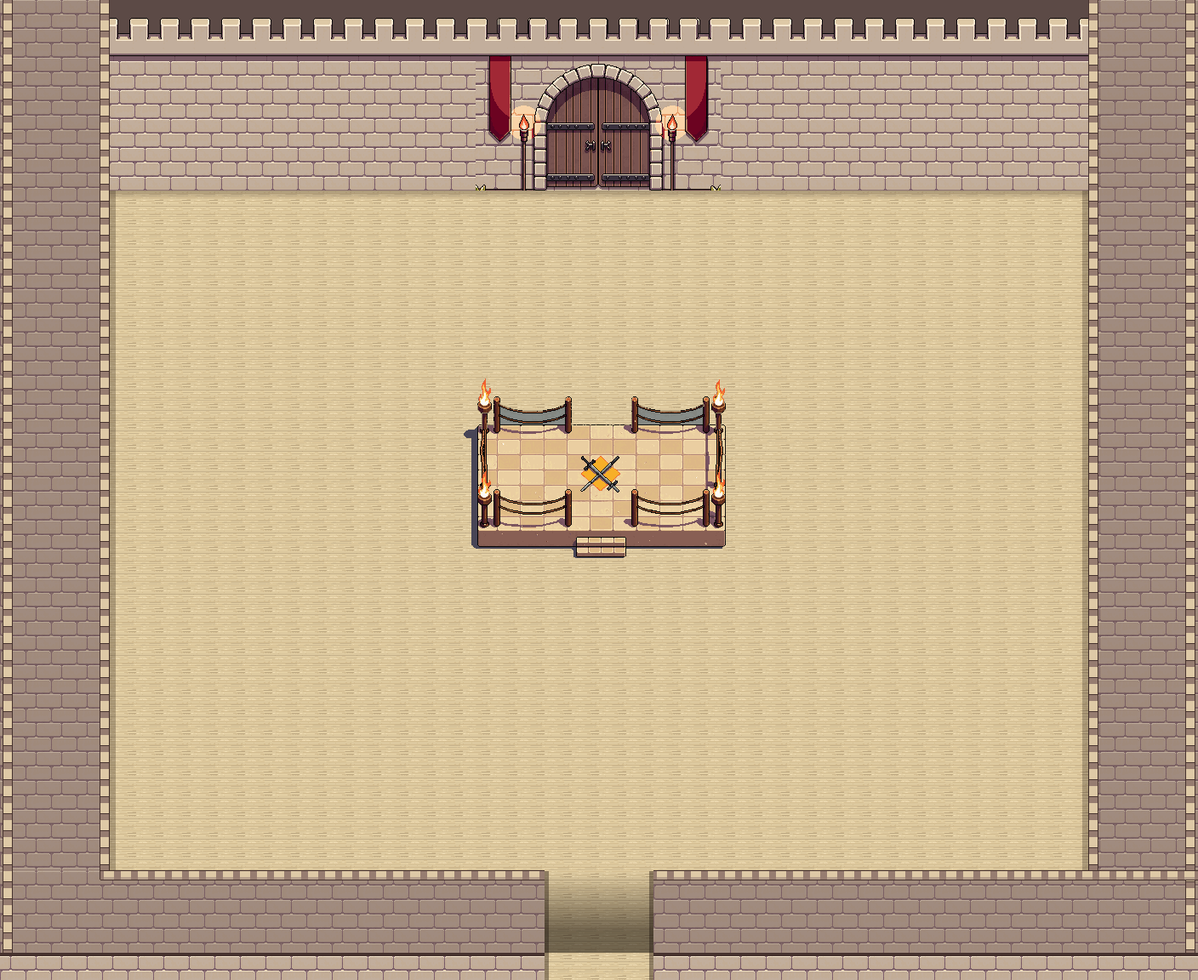
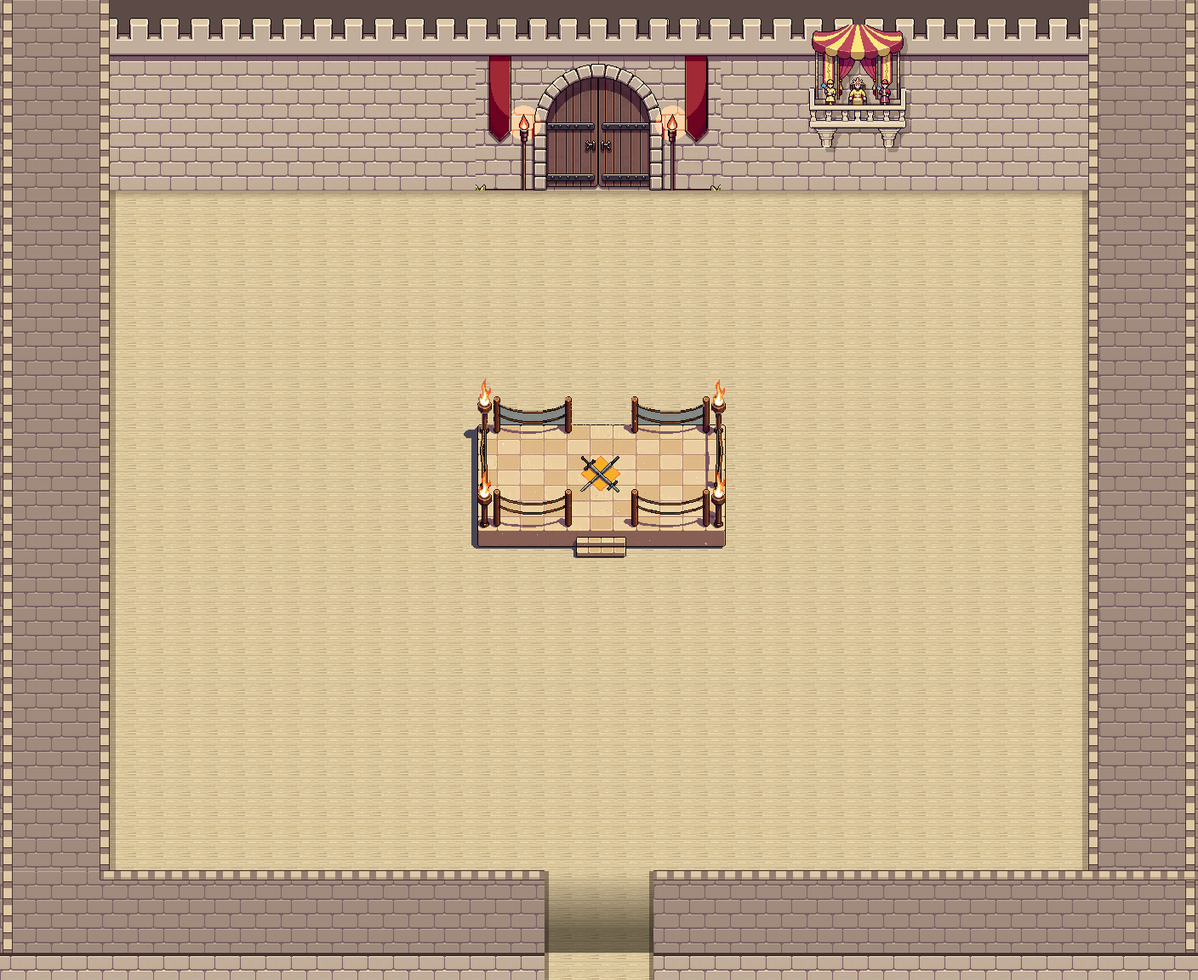
Arena: crowd colour variants, tumbleweeds and dust, bunting, emperor's box, cheering crowd
Claude-Session: https://claude.ai/code/session_01XDjrSJWyUbQspsRPp4c6ym

Changed region(s): [[0.6562, 0.0, 0.7812, 0.1562]]

diff --git a/game/js/northroad-arena.js b/game/js/northroad-arena.js
@@ -2,11 +2,12 @@
 // (SD.northRoad.maps), which builds everything else on the North Road; doors, entrances and people keep the same
 // keys, so the road, the quests and the cutscenes find them as before.
 //
-// The arena is a castle courtyard: thick sandstone walls all round, the fighters' great door in the north wall,
-// the road coming in through a passage in the south wall, and a raised ring in the middle that you can climb into.
-// The walls, the door and the ring are one picture painted under everything (assets/img/arc/ar-floor.webp, made by
-// tools/arena_art.py), so they always line up. Forty-odd people fill the sand: fans, skewer sellers, nobles, kids,
-// old gladiators, and two guards at the door.
+// The arena is a castle courtyard: thick sandstone walls all round, the fighters' great door in the north wall with
+// the emperor's box beside it, the road coming in through a passage in the south wall, and a raised ring in the
+// middle that you can climb into. The walls, the door, the box and the ring are one picture painted under everything
+// (assets/img/arc/ar-floor.webp, made by tools/arena_art.py), so they always line up. Forty-odd people fill the sand
+// (fans, skewer sellers, nobles, kids, old gladiators, two guards at the door) and cheer in waves; a dry wind blows
+// tumbleweeds and sand across it, under strings of pennants.
 (function () {
   const NR = SD.northRoad;
   if (!NR || !NR.maps) return;
@@ -22,28 +23,29 @@
   const FIRE = '255,140,60';
 
   // ---------- The crowd ----------
-  // [x, y, facing, kind]. Nobody stands in the lanes: the door's approach (tiles 20-23 down to the ring), the
-  // ring's two openings, or the road up from the south passage. The kinds are the arena's own people (spec1-7,
-  // PixelLab characters made by tools/arena_art.py): see KIND below.
+  // [x, y, facing, kind, moves]. Nobody stands in the lanes: the door's approach (tiles 20-23 down to the ring),
+  // the ring's two openings, or the road up from the south passage. The kinds are the arena's own people (spec1-7,
+  // PixelLab characters made by tools/arena_art.py, each in up to four colourings): see KIND below. moves is
+  // 'pace' for someone who can't keep still (js/northroad.js paces anyone with no home yet: a tile or two and back),
+  // or a round to walk back and forth along a clear straight line (the skewer sellers). Everyone else holds still.
   const S = 'south', N = 'north', E = 'east', Wf = 'west';
   const CROWD = [
     // along the north wall, either side of the door
-    [9, 8, S, 'vendor'], [10, 8, S, 'banner'], [12, 8, S, 'finger'], [13, 8, S, 'banner'], [17, 8, S, 'kid'],
-    [26, 8, S, 'noble'], [27, 8, S, 'noble'], [29, 8, S, 'finger'], [30, 8, S, 'banner'], [32, 8, S, 'vendor'],
+    [10, 8, S, 'banner'], [12, 8, S, 'finger'], [13, 8, S, 'banner', 'pace'], [17, 8, S, 'kid'],
+    [26, 8, S, 'noble'], [27, 8, S, 'noble'], [29, 8, S, 'finger'], [30, 8, S, 'banner'],
     // round the ring: behind it, at its sides, in front of it
     [17, 14, S, 'finger'], [18, 14, S, 'banner'], [19, 14, S, 'kid'], [24, 14, S, 'kid'], [25, 14, S, 'banner'], [26, 14, S, 'finger'],
     [15, 17, E, 'veteran'], [15, 18, E, 'banner'], [15, 19, E, 'finger'],
     [28, 17, Wf, 'finger'], [28, 18, Wf, 'banner'], [28, 19, Wf, 'veteran'],
     [17, 23, N, 'banner'], [18, 23, N, 'kid'], [19, 23, N, 'finger'], [24, 23, N, 'finger'], [25, 23, N, 'banner'], [26, 23, N, 'noble'],
     // down the side walls
-    [5, 12, E, 'veteran'], [5, 13, E, 'banner'], [5, 20, E, 'vendor'], [5, 25, E, 'finger'],
-    [38, 13, Wf, 'noble'], [38, 14, Wf, 'noble'], [38, 18, Wf, 'banner'], [38, 25, Wf, 'veteran'],
-    // at the snack carts
-    [11, 27, Wf, 'vendor'], [32, 27, E, 'kid']
+    [5, 12, E, 'veteran'], [5, 13, E, 'banner'], [5, 20, E, 'finger', 'pace'], [5, 25, E, 'finger'],
+    [38, 13, Wf, 'noble'], [38, 14, Wf, 'noble'], [38, 18, Wf, 'banner'], [38, 25, Wf, 'veteran', 'pace'],
+    [32, 27, E, 'kid'],
+    // the skewer sellers, doing their rounds
+    [11, 11, S, 'vendor', [[11, 11], [11, 22]]], [33, 24, N, 'vendor', [[33, 24], [33, 15]]],
+    [6, 24, E, 'vendor', [[6, 24], [15, 24]]], [36, 30, Wf, 'vendor', [[36, 30], [24, 30]]]
   ];
-  // Some of them can't keep still: they shuffle a tile or two and come back (js/northroad.js paces anyone with no
-  // home yet). The rest hold their spot.
-  const PACE = { 0: 1, 4: 1, 9: 1, 30: 1, 33: 1, 36: 1 };
   // Each kind: its sprite, the name and titles the dialog shows, a drawn portrait's colours, and lines of its own
   // (said alongside the crowd's shared ones).
   const KIND = {
@@ -89,11 +91,43 @@
     'The tournament\'s over and nobody wants to go home. I\'m not going home. This is home now.', 'I still hear the gong in my sleep. It\'s nice. Mostly.',
     'You were in the final, weren\'t you? I cheered for you! I cheered for everyone. But mostly you.', 'They\'re keeping the ring up for practice. Fight me! ...No, don\'t.'
   ];
+  // The crowd cheers in waves: every few seconds about a third of them (most of them, every fourth wave) give two
+  // little hops, and now and then one of them sings or cheers out loud. Drawn here rather than by js/scene.js so
+  // the hop can lift the sprite off its shadow; the sheets are laid out as scene.js expects (south, west, east, north;
+  // a standing pose, then the walk).
+  const ROW = { south: 0, west: 1, east: 2, north: 3 }, PICS = {}, CHEER = ['music', 'star', 'heart', 'laugh'];
+  const img = src => PICS[src] || (PICS[src] = pic(src));
+  const ok = im => im.complete && im.naturalWidth;
+  const hash = (a, b) => { let h = (a * 374761393 + b * 668265263) | 0; h = (h ^ (h >>> 13)) * 1274126177; return ((h ^ (h >>> 16)) >>> 0) / 4294967296; };
+  const WAVE = 4.5;
+  function fan(i, cheers) {
+    return function (ctx, x, y, ts, t) {
+      const c = SD.arcArt.chars[this.sprite], im = img('assets/img/arc/c-' + this.sprite + '.webp');
+      const going = this.moving || this.path.length;
+      let hop = 0;
+      if (cheers && !going) {
+        const w = Math.floor(t / WAVE), start = w * WAVE + hash(i, w + 7) * 1.4, u = t - start;
+        if (hash(i, w) < (w % 4 === 3 ? 0.75 : 0.3) && u >= 0 && u < 0.7) {
+          hop = Math.abs(Math.sin(u / 0.35 * Math.PI)) * ts * 0.22;
+          if (this.emoT <= 0 && this.cheered !== w && hash(i, w + 3) < 0.15) { this.emo = CHEER[(i + w) % 4]; this.emoT = 1.3; }
+          this.cheered = w;
+        }
+      }
+      ctx.fillStyle = 'rgba(43,35,64,0.22)';
+      ctx.beginPath(); ctx.ellipse(x, y - ts * 0.05, ts * (0.32 - hop / ts * 0.3), ts * 0.11, 0, 0, Math.PI * 2); ctx.fill();
+      if (!c || !ok(im)) return;
+      const row = ROW[this.face] || 0, n = c.n[row], col = n && going ? 1 + Math.floor(t * 8) % n : 0;
+      const w = c.w * ts / 32, h = c.h * ts / 32;
+      ctx.drawImage(im, col * c.w, row * c.h, c.w, c.h, x - w / 2, y - h - hop, w, h);
+    };
+  }
   const crowd = {}, said = {}, seen = {};
-  CROWD.forEach(([x, y, face, kind], i) => {
+  CROWD.forEach(([x, y, face, kind, moves], i) => {
+    // Each kind cycles through its colourings, so neighbours of the same kind never match.
     const id = 'crowd' + i, k = KIND[kind], n = seen[kind] = (seen[kind] || 0) + 1;
     SD.cast[id] = Object.assign({ name: k.name, title: k.titles[(n - 1) % k.titles.length] }, k.look);
-    crowd[id] = Object.assign({ x, y, face, sprite: k.sprite }, PACE[i] ? {} : { home: [x, y], nextStroll: Infinity });
+    crowd[id] = Object.assign({ x, y, face, sprite: k.sprite + ['', 'b', 'c', 'd'][(n - 1) % 4], draw: fan(i, kind !== 'vendor') },
+      moves === 'pace' ? {} : Array.isArray(moves) ? { route: moves } : { home: [x, y], nextStroll: Infinity });
     SD.roadTalk.lines[id] = () => {
       const pool = k.lines.concat(flags().ch8 ? AFTER : [], LINES);
       said[i] = (said[i] || 0) + 1;
@@ -104,7 +138,7 @@
   [[19, 7], [24, 7]].forEach(([x, y], i) => {
     const id = 'doorguard' + i;
     SD.cast[id] = { name: 'Arena guard', title: 'Has never once blinked', hue: 35, hair: 'short', eye: '#2b2340' };
-    crowd[id] = { x, y, face: 'south', sprite: 'spec7', home: [x, y], nextStroll: Infinity };
+    crowd[id] = { x, y, face: 'south', sprite: i ? 'spec7b' : 'spec7', home: [x, y], nextStroll: Infinity };
     SD.roadTalk.lines[id] = () => [i ? 'Fighters only beyond this door. And Gong. And the skewer seller. And... fighters only, mostly.'
       : 'Halt. ...Sorry, I say that to everyone. You can go in if you\'re fighting. Are you fighting? You look like you\'re fighting.'];
   });
@@ -130,13 +164,113 @@
     const BRAZIERS = [[15, 7], [28, 7], [4, 9], [4, 16], [4, 23], [39, 9], [39, 16], [39, 23], [19, 33], [24, 33]];
     BRAZIERS.forEach(([x, y]) => m.put(x, y, '#'));
     const FLOOR = pic('assets/img/arc/ar-floor.webp');
+
+    // ---------- Wind ----------
+    // A dry wind blows west to east. Tumbleweeds roll across the sand, bouncing and spinning, each on a lane clear of
+    // the ring; they are actors (solid: false, they can't be talked to) so people are drawn in front of or behind
+    // them by row. Where each one is comes from the time alone, set in under() before anything is drawn.
+    const TW = [[0.9, 2.3, 'ar-tumbleweed', 0], [0.75, 1.8, 'ar-tumbleweed2', 13], [1, 2.8, 'ar-tumbleweed', 29]];   // size, speed, art, start
+    const LANES = [11, 24, 30, 26, 31, 12], RUN = 37, GAP = 30;   // a run across the sand, then a while off it
+    const tumble = {};
+    TW.forEach(([k, speed, art], j) => {
+      tumble['tumble' + j] = { x: 3, y: 11, solid: false, talk: false, home: [3, 11], nextStroll: Infinity, hidden: true,
+        draw(ctx, x, y, ts) {
+          const a = SD.arcArt.objects[art], im = img('assets/img/arc/' + art + '.webp'); if (!a || !ok(im)) return;
+          const d = this.dist || 0, hop = Math.abs(Math.sin(d * Math.PI / 1.7)) * ts * 0.5 * k, w = a[0] * ts / 32 * k, h = a[1] * ts / 32 * k;
+          ctx.fillStyle = 'rgba(60,40,20,' + (0.25 - hop / ts * 0.2) + ')';
+          ctx.beginPath(); ctx.ellipse(x, y - ts * 0.08, w * 0.4 * (1 - hop / ts * 0.4), ts * 0.1, 0, 0, Math.PI * 2); ctx.fill();
+          const land = (d % 1.7) / 1.7;                              // a puff of sand just after each landing
+          if (land < 0.35 && ok(img('assets/img/arc/ar-dust.webp'))) {
+            const D = SD.arcArt.objects['ar-dust'], q = 0.35 + land;
+            ctx.globalAlpha = 0.5 * (1 - land / 0.35);
+            ctx.drawImage(img('assets/img/arc/ar-dust.webp'), x - w * 0.9 - D[0] * ts / 32 * q * 0.5, y - D[1] * ts / 32 * q, D[0] * ts / 32 * q, D[1] * ts / 32 * q);
+            ctx.globalAlpha = 1;
+          }
+          ctx.save(); ctx.translate(x, y - h / 2 - hop); ctx.rotate(d / (k * 0.55)); ctx.drawImage(im, -w / 2, -h / 2, w, h); ctx.restore();
+        } };
+    });
+    let cam = { x: 0, y: 0, ts: 32 };
+    function under(ctx, ts, t) {
+      const T = ctx.getTransform(); cam = { x: -T.e / T.a, y: -T.f / T.d, ts };   // scene.js has shifted the canvas by the camera
+      if (FLOOR.complete && FLOOR.naturalWidth) ctx.drawImage(FLOOR, 0, 0, W * ts, H * ts);
+      const sc = NR.scene && NR.scene();
+      TW.forEach(([k, speed], j) => {
+        const a = sc && sc.actors['tumble' + j]; if (!a) return;
+        const d = speed * (t + TW[j][3] + 0.45 * Math.sin(0.7 * t + j * 2)), lap = Math.floor(d / (RUN + GAP)), u = d - lap * (RUN + GAP);
+        a.hidden = u > RUN; a.dist = u;
+        a.x = a.px = 3.4 + u; a.y = a.py = LANES[(lap + j * 2) % LANES.length];
+      });
+    }
+    // Over everything, in screen space: the shadows of clouds and birds passing over, sand blowing through in
+    // streaks and specks, and strings of pennants swaying high above the sand.
+    let SHADE = null;
+    function cloudShade() {
+      const c = document.createElement('canvas'); c.width = 360; c.height = 220;
+      const g = c.getContext('2d'), r = g.createRadialGradient(180, 110, 10, 180, 110, 170);
+      r.addColorStop(0, 'rgba(50,32,16,0.2)'); r.addColorStop(1, 'rgba(50,32,16,0)');
+      g.fillStyle = r; g.scale(1, 0.65); g.beginPath(); g.arc(180, 170, 170, 0, 7); g.fill();
+      return c;
+    }
+    // [from x, y, to x, y, sag] in tiles: down from the top of the north wall to the side walls, and one across the south.
+    const STRINGS = [[9, 1.8, 3.8, 12, 1], [16, 1.8, 3.8, 20, 1.4], [27, 1.8, 40.2, 20, 1.4], [34, 1.8, 40.2, 12, 1], [3.8, 26.6, 40.2, 26.6, 2]];
+    const PENNANT = ['#c8323c', '#f0c040', '#f4ecd8', '#3a6fc4'];
+    function overlay(ctx, t, vw, vh) {
+      const ts = cam.ts, s = ts / 32, wx = x => x * ts - cam.x, wy = y => y * ts - cam.y;
+      // cloud shadows and birds, fixed to the ground as it scrolls
+      SHADE = SHADE || cloudShade();
+      for (let i = 0; i < 2; i++) {
+        const span = W * ts + 900 * s, x = ((t * 14 * s + i * span / 2) % span) - 450 * s;
+        ctx.drawImage(SHADE, x - cam.x, wy(9 + i * 13), 360 * s * 1.6, 220 * s * 1.6);
+      }
+      ctx.strokeStyle = 'rgba(40,26,12,0.22)'; ctx.lineWidth = 2.5 * s; ctx.lineCap = 'round';
+      for (let i = 0; i < 4; i++) {
+        const span = W * ts + 600 * s, x = ((t * (60 + i * 9) * s + i * 377 * s) % span) - 300 * s, y = (6 + i * 7) * ts + x * 0.18;
+        const f = 0.45 + 0.35 * Math.sin(t * 9 + i * 2), b = 9 * s;
+        ctx.beginPath(); ctx.moveTo(x - cam.x - b, y - cam.y - b * f); ctx.lineTo(x - cam.x, y - cam.y); ctx.lineTo(x - cam.x + b, y - cam.y - b * f); ctx.stroke();
+      }
+      // blowing sand: soft clouds, streaks, specks, each layer a touch faster than the ground (parallax)
+      const drift = (name, k, speed, par, alpha, n, y0) => {
+        const a = SD.arcArt.objects[name], im = img('assets/img/arc/' + name + '.webp'); if (!a || !ok(im)) return;
+        const w = a[0] * s * k, h = a[1] * s * k, span = vw + w * 2;
+        ctx.globalAlpha = alpha;
+        for (let i = 0; i < n; i++) {
+          const x = (((i * span / n + t * speed * s - cam.x * par) % span) + span) % span - w;
+          const y = ((((y0 + i * 0.37) % 1) * (vh + h) - cam.y * par * 0.3) % (vh + h) + vh + h) % (vh + h) - h;
+          ctx.drawImage(im, x, y + Math.sin(t * 1.3 + i) * 6 * s, w, h);
+        }
+        ctx.globalAlpha = 1;
+      };
+      drift('ar-dust', 3, 38, 1.1, 0.14, 3, 0.2);
+      drift('ar-dust2', 2, 150, 1.25, 0.3, 5, 0.1);
+      ctx.fillStyle = 'rgba(232,206,150,0.6)';
+      for (let i = 0; i < 50; i++) {
+        const sp = (110 + (i % 5) * 30) * s, x = ((i * 97 * s + t * sp - cam.x * 1.2) % (vw + 40) + vw + 40) % (vw + 40) - 20;
+        const y = ((i * 53 * s - cam.y * 1.2) % vh + vh) % vh + Math.sin(t * 2 + i) * 8 * s;
+        ctx.fillRect(x, y, 2 * s, 1.5 * s);
+      }
+      // bunting: a cord sagging between two points, swaying, with a pennant every couple of feet
+      STRINGS.forEach(([x0, y0, x1, y1, sag], j) => {
+        const at = u => [wx(x0 + (x1 - x0) * u), wy(y0 + (y1 - y0) * u + (sag + Math.sin(t * 1.1 + j) * 0.12) * 4 * u * (1 - u))];
+        const len = Math.hypot(x1 - x0, y1 - y0), n = Math.round(len / 0.6);
+        ctx.strokeStyle = 'rgba(60,40,30,0.9)'; ctx.lineWidth = 1.5 * s; ctx.beginPath();
+        for (let i = 0; i <= 24; i++) { const [px, py] = at(i / 24); i ? ctx.lineTo(px, py) : ctx.moveTo(px, py); }
+        ctx.stroke();
+        for (let i = 1; i < n; i++) {
+          const [px, py] = at(i / n), sw = Math.sin(t * 3 + i * 0.9 + j) * 0.3, pw = 0.17 * ts, ph = 0.42 * ts;
+          ctx.save(); ctx.translate(px, py); ctx.rotate(sw);
+          ctx.fillStyle = PENNANT[(i + j) % PENNANT.length]; ctx.strokeStyle = 'rgba(50,30,20,0.85)'; ctx.lineWidth = 1 * s;
+          ctx.beginPath(); ctx.moveTo(-pw, 0); ctx.lineTo(pw, 0); ctx.lineTo(0, ph); ctx.closePath(); ctx.fill(); ctx.stroke();
+          ctx.restore();
+        }
+      });
+    }
     return {
       map: m.rows(), terrain: { a: 'd8', '#': 'd8', D: 'd8', S: 'd8' }, top: ['d8'], base: 'd8', solid: '#', bg: '#c9b48a', zoom: 32,
       doors: { D: 'D', S: 'S' },
       doorFor: (x, y) => (x >= 4 && x <= 39 && y <= 6) ? [21, 7] : null,
-      under: (ctx, ts) => { if (FLOOR.complete && FLOOR.naturalWidth) ctx.drawImage(FLOOR, 0, 0, W * ts, H * ts); },
+      under, overlay,
       objects: [
-        ...[7, 13.5, 29.5, 36].map(x => ({ name: 'ar-banner', x, y: 6.4 })),
+        ...[7, 13.5, 27.4, 36].map(x => ({ name: 'ar-banner', x, y: 6.4 })),
         { name: 'ar-weapons', x: 11, y: 7 }, { name: 'ar-weapons', x: 32, y: 7, flip: true },
         ...BRAZIERS.map(([x, y]) => ({ name: 'ar-brazier', x, y })),
         { name: 'ar-bracket', x: 7, y: 10 }, { name: 'ar-booth', x: 36.5, y: 10 }, { name: 'ar-gong', x: 31, y: 13 },
@@ -148,13 +282,14 @@
         { name: 'ar-pillar', x: 19.5, y: 32.2 }, { name: 'ar-pillar', x: 23.5, y: 32.2 }
       ],
       lights: BRAZIERS.map(([x, y]) => ({ x, y: y - 1, r: 2.6, rgb: FIRE }))
-        .concat([[17.2, 15], [25.8, 15], [17.2, 19], [25.8, 19], [19.3, 4.6], [24.7, 4.6]].map(([x, y]) => ({ x, y, r: 2.4, rgb: FIRE }))),
+        .concat([[17.2, 15], [25.8, 15], [17.2, 19], [25.8, 19], [19.3, 4.6], [24.7, 4.6]].map(([x, y]) => ({ x, y, r: 2.4, rgb: FIRE })))
+        .concat([{ x: 31, y: 3.2, r: 2.4, rgb: '255,200,120' }]),   // the emperor's box (tools/arena_art.py puts it at 31.5)
       labels: [{ x: 21.5, y: 7.4, text: "FIGHTERS' GATE" }, { x: 7, y: 11.1, text: 'THE BRACKET' }, { x: 21.5, y: 23.2, text: 'THE RING' }, { x: 21.5, y: 34.6, text: 'ROAD ↓' }],
       actors: Object.assign({
         gong: { x: 34, y: 13, face: 'south', name: 'GONG' },
         v3: { x: 6, y: 16, face: 'east', name: 'FAN' }, v1: { x: 30, y: 29, face: 'west', name: 'FAN' }, v2: { x: 12, y: 29, face: 'east', name: 'FAN' }, v4: { x: 37, y: 22, face: 'west', name: 'BOOKIE' },
         hero500: { x: 24, y: 18, face: 'west', name: 'HERO #500', hidden: true }
-      }, crowd),
+      }, crowd, tumble),
       back: { D: [21, 7, 'south'], S: [21, 34, 'north'] }, enter: [21, 34, 'north'], ch: 8, music: 'ch8', weather: 'sun'
     };
   })();

diff --git a/game/js/arena-art.js b/game/js/arena-art.js
@@ -1,3 +1,3 @@
 // Made by tools/arena_art.py: sizes of its art and its people (added to js/arc-art.js's tables).
-Object.assign(SD.arcArt.objects, {"ar-pillar": [22, 107], "ar-gong": [83, 98], "ar-brazier": [23, 58], "ar-banner": [25, 107], "ar-weapons": [40, 55], "ar-crates": [56, 52], "ar-foodcart": [50, 66], "ar-floor": [1408, 1152]});
-Object.assign(SD.arcArt.chars, {"spec1": {"w": 34, "h": 57, "n": [4, 4, 4, 4], "walk": 1}, "spec2": {"w": 28, "h": 52, "n": [4, 4, 4, 4], "walk": 1}, "spec3": {"w": 30, "h": 52, "n": [4, 4, 4, 4], "walk": 1}, "spec4": {"w": 28, "h": 54, "n": [4, 4, 4, 4], "walk": 1}, "spec5": {"w": 30, "h": 56, "n": [4, 4, 4, 4], "walk": 1}, "spec6": {"w": 30, "h": 53, "n": [4, 4, 4, 4], "walk": 1}, "spec7": {"w": 28, "h": 54, "n": [4, 4, 4, 4], "walk": 1}, "folk1": {"w": 30, "h": 52, "n": [4, 4, 4, 4], "walk": 1}, "folk2": {"w": 30, "h": 53, "n": [4, 4, 4, 4], "walk": 1}, "folk3": {"w": 30, "h": 53, "n": [4, 4, 4, 4], "walk": 1}, "folk4": {"w": 28, "h": 51, "n": [4, 4, 4, 4], "walk": 1}, "folk5": {"w": 28, "h": 53, "n": [4, 4, 4, 4], "walk": 1}, "folk6": {"w": 28, "h": 51, "n": [4, 4, 4, 4], "walk": 1}});
+Object.assign(SD.arcArt.objects, {"ar-pillar": [22, 107], "ar-gong": [83, 98], "ar-brazier": [23, 58], "ar-banner": [25, 107], "ar-weapons": [40, 55], "ar-crates": [56, 52], "ar-foodcart": [50, 66], "ar-tumbleweed": [36, 34], "ar-tumbleweed2": [34, 34], "ar-dust": [82, 42], "ar-dust2": [118, 18], "ar-floor": [1408, 1152]});
+Object.assign(SD.arcArt.chars, {"spec1": {"w": 34, "h": 57, "n": [4, 4, 4, 4], "walk": 1}, "spec1b": {"w": 34, "h": 57, "n": [4, 4, 4, 4], "walk": 1}, "spec1c": {"w": 34, "h": 57, "n": [4, 4, 4, 4], "walk": 1}, "spec1d": {"w": 34, "h": 57, "n": [4, 4, 4, 4], "walk": 1}, "spec2": {"w": 28, "h": 52, "n": [4, 4, 4, 4], "walk": 1}, "spec2b": {"w": 28, "h": 52, "n": [4, 4, 4, 4], "walk": 1}, "spec2c": {"w": 28, "h": 52, "n": [4, 4, 4, 4], "walk": 1}, "spec2d": {"w": 28, "h": 52, "n": [4, 4, 4, 4], "walk": 1}, "spec3": {"w": 30, "h": 52, "n": [4, 4, 4, 4], "walk": 1}, "spec3b": {"w": 30, "h": 52, "n": [4, 4, 4, 4], "walk": 1}, "spec3c": {"w": 30, "h": 52, "n": [4, 4, 4, 4], "walk": 1}, "spec3d": {"w": 30, "h": 52, "n": [4, 4, 4, 4], "walk": 1}, "spec4": {"w": 28, "h": 54, "n": [4, 4, 4, 4], "walk": 1}, "spec4b": {"w": 28, "h": 54, "n": [4, 4, 4, 4], "walk": 1}, "spec4c": {"w": 28, "h": 54, "n": [4, 4, 4, 4], "walk": 1}, "spec4d": {"w": 28, "h": 54, "n": [4, 4, 4, 4], "walk": 1}, "spec5": {"w": 30, "h": 56, "n": [4, 4, 4, 4], "walk": 1}, "spec5b": {"w": 30, "h": 56, "n": [4, 4, 4, 4], "walk": 1}, "spec5c": {"w": 30, "h": 56, "n": [4, 4, 4, 4], "walk": 1}, "spec5d": {"w": 30, "h": 56, "n": [4, 4, 4, 4], "walk": 1}, "spec6": {"w": 30, "h": 53, "n": [4, 4, 4, 4], "walk": 1}, "spec6b": {"w": 30, "h": 53, "n": [4, 4, 4, 4], "walk": 1}, "spec6c": {"w": 30, "h": 53, "n": [4, 4, 4, 4], "walk": 1}, "spec6d": {"w": 30, "h": 53, "n": [4, 4, 4, 4], "walk": 1}, "spec7": {"w": 28, "h": 54, "n": [4, 4, 4, 4], "walk": 1}, "spec7b": {"w": 28, "h": 54, "n": [4, 4, 4, 4], "walk": 1}, "folk1": {"w": 30, "h": 52, "n": [4, 4, 4, 4], "walk": 1}, "folk2": {"w": 30, "h": 53, "n": [4, 4, 4, 4], "walk": 1}, "folk3": {"w": 30, "h": 53, "n": [4, 4, 4, 4], "walk": 1}, "folk4": {"w": 28, "h": 51, "n": [4, 4, 4, 4], "walk": 1}, "folk5": {"w": 28, "h": 53, "n": [4, 4, 4, 4], "walk": 1}, "folk6": {"w": 28, "h": 51, "n": [4, 4, 4, 4], "walk": 1}});

diff --git a/game/tools/arena_art.py b/game/tools/arena_art.py
@@ -2,10 +2,11 @@
 
 usage: arena_art.py SRC_DIR   (SRC_DIR: /mnt/project-files/arena-exchange-raw)
 SRC_DIR holds the raw PixelLab files: ar-*.png map objects, ar-door.png (the great door in its stretch of wall),
+ar-royalbox2.png (the emperor's box),
 ar-ring2.png (the ring, on a grey backdrop), kit/ (a sandstone building kit; its sand floor is used) and
 chars/spec1-7/ and chars/folk1-6/ (characters, each unzipped from its download).
 Writes assets/img/arc/<name>.webp, ar-floor.webp (walls, door and ring, painted under the arena by
-js/northroad-arena.js), the crowd's people c-spec1-7.webp
+js/northroad-arena.js), the crowd's people c-spec1-7.webp and their recoloured variants (c-spec1b...)
 (and c-folk1-6.webp, townsfolk the Exchange uses), and js/arena-art.js (their sizes).
 """
 import colorsys, json, os, sys
@@ -15,7 +16,8 @@ from PIL import Image
 SRC = sys.argv[1]
 HERE = os.path.dirname(os.path.dirname(os.path.abspath(__file__)))
 OUT = os.path.join(HERE, 'assets/img/arc')
-OBJECTS = ['ar-pillar', 'ar-gong', 'ar-brazier', 'ar-banner', 'ar-weapons', 'ar-crates', 'ar-foodcart']
+OBJECTS = ['ar-pillar', 'ar-gong', 'ar-brazier', 'ar-banner', 'ar-weapons', 'ar-crates', 'ar-foodcart',
+           'ar-tumbleweed', 'ar-tumbleweed2', 'ar-dust', 'ar-dust2']   # the last four blow about (js/northroad-arena.js)
 
 def save(im, name):
     im.save(os.path.join(OUT, name + '.webp'), lossless=True, quality=100, method=6)
@@ -84,6 +86,12 @@ DOOR_X = 22 * TS - X0 * TS - DOOR_MID                     # where the door sits 
 for x in range((DOOR_X + 100) % 36 - 36, face.width, 36):   # merlons in step with the door's own
     face.alpha_composite(parapet, (x, 0))
 face.alpha_composite(door, (DOOR_X, 0))
+# The emperor's box (ar-royalbox2): a canopied balcony on brackets, set into the wall east of the door.
+box = load('ar-royalbox2'); box = box.crop(box.getbbox())
+BOX_MID = 31.5 * TS                                       # keep in step with the box's light in js/northroad-arena.js
+bx = int(BOX_MID - X0 * TS - box.width / 2)
+shadow = Image.new('RGBA', box.size, (40, 26, 18, 0)); shadow.putalpha(box.getchannel('A').point(lambda a: 70 if a > 0 else 0))
+face.alpha_composite(shadow, (bx + 5, 16)); face.alpha_composite(box, (bx, 10))   # it stands out from the wall a little
 floor.alpha_composite(Image.new('RGBA', (W * TS, FACE_TOP + 20), (92, 74, 70, 255)), (0, 0))   # the walkway behind
 floor.alpha_composite(face, (X0 * TS, FACE_TOP))
 for i in range(10):                                       # shade along the foot of the wall
@@ -126,6 +134,56 @@ save(floor, 'ar-floor'); sizes['ar-floor'] = [W * TS, H * TS]
 # seller, an old gladiator, a noble, a kid with a wooden sword, and the arena guard) and townsfolk (folk1-6; the
 # Exchange uses them). One sheet each, as tools/village_art.py makes them: rows south, west, east, north; column 0
 # standing, then the four walking frames.
+# Variants, so the crowd isn't forty copies of seven people: each recipe recolours some of a sheet's colours and
+# leaves the rest (skin, outlines, wood, steel) alone. A rule picks colours by hue window (degrees, wrapping round 0),
+# saturation and brightness ranges, and how much of that colour sits in the top third of the frame (hair, hats,
+# plumes); then turns the hue, scales the saturation, or tints by brightness towards a colour.
+def rule(h=(0, 360), s=(0, 1), v=(0, 1), top=(0, 1), turn=0, sat=1, tint=None):
+    return dict(h=h, s=s, v=v, top=top, turn=turn, sat=sat, tint=tint)
+REDS, PURPLES = (330, 15), (262, 300)
+VARIANTS = {
+    'spec1': [[rule(REDS, (0.55, 1), turn=125)], [rule(REDS, (0.55, 1), turn=215)], [rule(REDS, (0.55, 1), turn=42)]],    # team colours
+    'spec2': [[rule(REDS, (0.55, 1), turn=220)], [rule(REDS, (0.55, 1), turn=130), rule((25, 52), (0.55, 1), sat=0.15)],
+              [rule(REDS, (0.55, 1), turn=275), rule((25, 52), (0.55, 1), turn=150)]],
+    'spec3': [[rule(REDS, (0.6, 1), (0, 0.74), turn=210)], [rule(REDS, (0.6, 1), (0, 0.74), turn=120)],
+              [rule(REDS, (0.6, 1), (0, 0.74), turn=30, sat=0.8)]],                                        # aprons and caps, not the meat
+    'spec4': [[rule(s=(0, 0.13), v=(0.45, 1), top=(0.75, 1), tint=(236, 236, 240)), rule((215, 260), (0.15, 0.7), turn=130, sat=1.8)],
+              [rule(s=(0, 0.13), v=(0.45, 1), top=(0.75, 1), tint=(92, 60, 44)), rule((215, 260), (0.15, 0.7), turn=250, sat=1.8)],
+              [rule(s=(0, 0.13), v=(0.45, 1), top=(0.75, 1), tint=(206, 112, 58))]],                                     # hair, trousers
+    'spec5': [[rule(PURPLES, (0.5, 1), turn=78)], [rule(PURPLES, (0.5, 1), turn=-62)], [rule(PURPLES, (0.5, 1), turn=-150)]],  # robes
+    'spec6': [[rule((215, 245), (0.3, 1), turn=140), rule(s=(0, 0.06), v=(0.75, 1), top=(0, 0.25), tint=(200, 222, 246))],
+              [rule((215, 245), (0.3, 1), turn=-100), rule(s=(0, 0.06), v=(0.75, 1), top=(0, 0.25), tint=(246, 226, 160))],
+              [rule((215, 245), (0.3, 1), turn=60), rule(s=(0, 0.06), v=(0.75, 1), top=(0, 0.25), tint=(216, 240, 196))]],   # trousers, shirt
+    'spec7': [[rule((350, 15), (0.68, 1), top=(0.8, 1), turn=215)]],                                                    # a blue plume
+}
+def recolor(sheet, fh, recipe):
+    px = sheet.load(); W_, H_ = sheet.size
+    seen, up = {}, {}                                     # how often each colour appears, and how often in a frame's top third
+    for y in range(H_):
+        for x in range(W_):
+            c = px[x, y]
+            if c[3] < 200: continue
+            seen[c[:3]] = seen.get(c[:3], 0) + 1
+            if y % fh < fh / 3: up[c[:3]] = up.get(c[:3], 0) + 1
+    remap = {}
+    for c, n in seen.items():
+        h, sa, va = colorsys.rgb_to_hsv(*(k / 255 for k in c)); hd = h * 360; tp = up.get(c, 0) / n
+        for r in recipe:
+            lo, hi = r['h']
+            inh = lo <= hd <= hi if lo <= hi else (hd >= lo or hd <= hi)
+            if not (inh and r['s'][0] <= sa <= r['s'][1] and r['v'][0] <= va <= r['v'][1] and r['top'][0] <= tp <= r['top'][1]): continue
+            if r['tint']:
+                k = va / 0.85; remap[c] = tuple(min(255, int(t * k)) for t in r['tint'])
+            else:
+                remap[c] = tuple(int(k * 255) for k in colorsys.hsv_to_rgb(((hd + r['turn']) % 360) / 360, min(1, sa * r['sat']), va))
+            break
+    out = sheet.copy(); po = out.load()
+    for y in range(H_):
+        for x in range(W_):
+            c = po[x, y]
+            if c[:3] in remap: po[x, y] = remap[c[:3]] + (c[3],)
+    return out
+
 chars = {}
 for name in ['spec%d' % n for n in range(1, 8)] + ['folk%d' % n for n in range(1, 7)]:
     d = os.path.join(SRC, 'chars', name)
@@ -145,6 +203,8 @@ for name in ['spec%d' % n for n in range(1, 8)] + ['folk%d' % n for n in range(1
     for ri, r in enumerate(rows):
         for ci, im in enumerate(r): out.alpha_composite(im.crop((x0, box[1], x1, box[3])), (ci * fw, ri * fh))
     save(out, 'c-' + name); chars[name] = {'w': fw, 'h': fh, 'n': [len(r) - 1 for r in rows], 'walk': 1}
+    for v, recipe in enumerate(VARIANTS.get(name, [])):           # the same person in other colours: spec1b, spec1c...
+        save(recolor(out, fh, recipe), 'c-%s%s' % (name, 'bcd'[v])); chars[name + 'bcd'[v]] = chars[name]
 
 open(os.path.join(HERE, 'js/arena-art.js'), 'w').write(
     '// Made by tools/arena_art.py: sizes of its art and its people (added to js/arc-art.js\'s tables).\n'

diff --git a/game/CREDITS-arc.md b/game/CREDITS-arc.md
@@ -8,7 +8,7 @@ Kept apart from `CREDITS.md` so the arc branch merges cleanly; fold it in whenev
 | --- | --- | --- | --- |
 | North Road buildings and props (`assets/img/arc/nr-*.webp`), Kyu, Lord Latency, Hero #1023 and Hero #500 sprites (`assets/img/arc/c-*.webp`), chapter 7-10 dungeon floors and props (`assets/img/dungeon/t-7..10`, `d7a`-`d10b`), chapter 7 monsters (`assets/img/monsters/cellgremlin, pingswarm, stalepin, detour, tilehoarder, mimic, chestboss, statue, wyrm`), chapter 7-10 battle backdrops (`assets/img/battle/bg-7..10`), Kyu's and Lord Latency's portraits (`assets/img/portraits/kyu-*`, `latency-*`) and the village's North Road gate (`assets/img/village/b-N.webp`, a copy of `nr-gate`) | Generated for this game with [PixelLab](https://pixellab.ai) on Ladi's subscription, processed by `tools/village_art.py`, `tools/arc_art.py` and `tools/pixel_portraits.py` | Used under PixelLab's [Terms of Service](https://pixellab.ai/termsofservice) | The North Road, the arc's floors, fights and cutscenes |
 | Chapter 9 and 10 monsters and bosses (`assets/img/monsters/unreadimp, spamslime, bitrot, orphanchunk, rankrat, hotshard, mailstorm, mailleviathan, vaultgolem, whistleboard, doublebook, chargeback, forgedcoin, orderflood, shadowhero, homunculus, gluttony, greed, envy, pride, kyuboss, pager`), the side-quest characters Suzu, Zen, Explodia, Hypewagon and Akane and their portraits (`assets/img/portraits/suzu-*`, `zen-*`, `explodia-*` in five moods, `hypewagon-*`, `akane-*`), the road travellers' portraits (`assets/img/portraits/v1-*` to `v4-*`, drawn from their village sprites), Heroes #3, #77 and #256 (`assets/img/arc/c-*.webp`), and the North Road city wall, rooftops, cliff, tunnel, arena seats, camp dummy and vending machine, Exchange townhouses, planters and fire pit, walk cycles for every North Road character and for Ren (`assets/img/arc/*.webp`, Ren's is `c-renwalk.webp`) | Generated for this game with [PixelLab](https://pixellab.ai) on Ladi's subscription, processed by `tools/arc_art.py`, `tools/village_art.py` and `tools/pixel_portraits.py` | Used under PixelLab's [Terms of Service](https://pixellab.ai/termsofservice) | Chapters 9 and 10, the North Road and its side quests |
-| The redrawn tournament arena and Exchange: the arena's great door, castle walls (from the door's own stonework), fighting ring, braziers, banners, weapon racks, crates, snack carts and Gong's gong (`assets/img/arc/ar-*.webp`, the walls and ring painted into `ar-floor.webp` over sand from a PixelLab building kit); the arena crowd and guards (`assets/img/arc/c-spec1.webp` to `c-spec7.webp`) and the Exchange's townsfolk (`c-folk1.webp` to `c-folk6.webp`); the Exchange's headquarters, office towers, inn, Counting House, mirror shop, guildhall, rowhouses, tenements, hotel, bakery, apothecary, bank, pawn shop, diner, billboard, newsstand, street furniture, queue posts, frozen tickers, toppled bull, bear statue, fountain and wrecked cart (`assets/img/arc/ex-*.webp`) and its sky, skyline and clouds (`assets/img/arc/px-*.webp`; the smog is drawn by the tool) | Generated for this game with [PixelLab](https://pixellab.ai) on Ladi's subscription, processed by `tools/arena_art.py` and `tools/exchange_art.py` | Used under PixelLab's [Terms of Service](https://pixellab.ai/termsofservice) | Chapters 8 and 10 on the North Road |
+| The redrawn tournament arena and Exchange: the arena's great door, castle walls (from the door's own stonework), fighting ring, braziers, banners, weapon racks, crates, snack carts, Gong's gong, the emperor's box, tumbleweeds and dust clouds (`assets/img/arc/ar-*.webp`, the walls and ring painted into `ar-floor.webp` over sand from a PixelLab building kit); the arena crowd and guards (`assets/img/arc/c-spec1.webp` to `c-spec7.webp`, and the recoloured `c-spec1b` to `c-spec6d` and `c-spec7b` made from them by the tool) and the Exchange's townsfolk (`c-folk1.webp` to `c-folk6.webp`); the Exchange's headquarters, office towers, inn, Counting House, mirror shop, guildhall, rowhouses, tenements, hotel, bakery, apothecary, bank, pawn shop, diner, billboard, newsstand, street furniture, queue posts, frozen tickers, toppled bull, bear statue, fountain and wrecked cart (`assets/img/arc/ex-*.webp`) and its sky, skyline and clouds (`assets/img/arc/px-*.webp`; the smog is drawn by the tool) | Generated for this game with [PixelLab](https://pixellab.ai) on Ladi's subscription, processed by `tools/arena_art.py` and `tools/exchange_art.py` | Used under PixelLab's [Terms of Service](https://pixellab.ai/termsofservice) | Chapters 8 and 10 on the North Road |
 
 ## Music and sound effects
 
